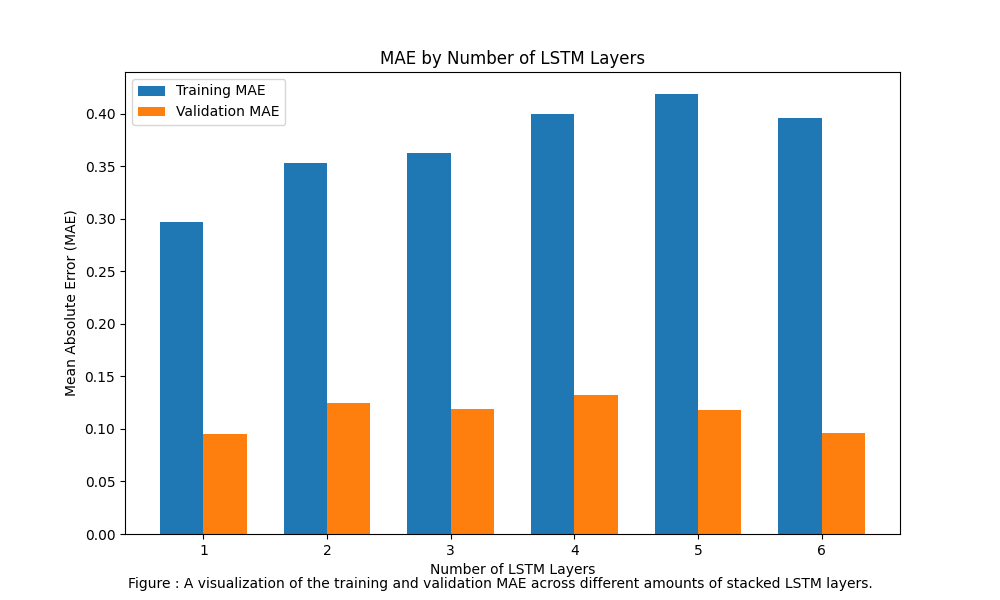
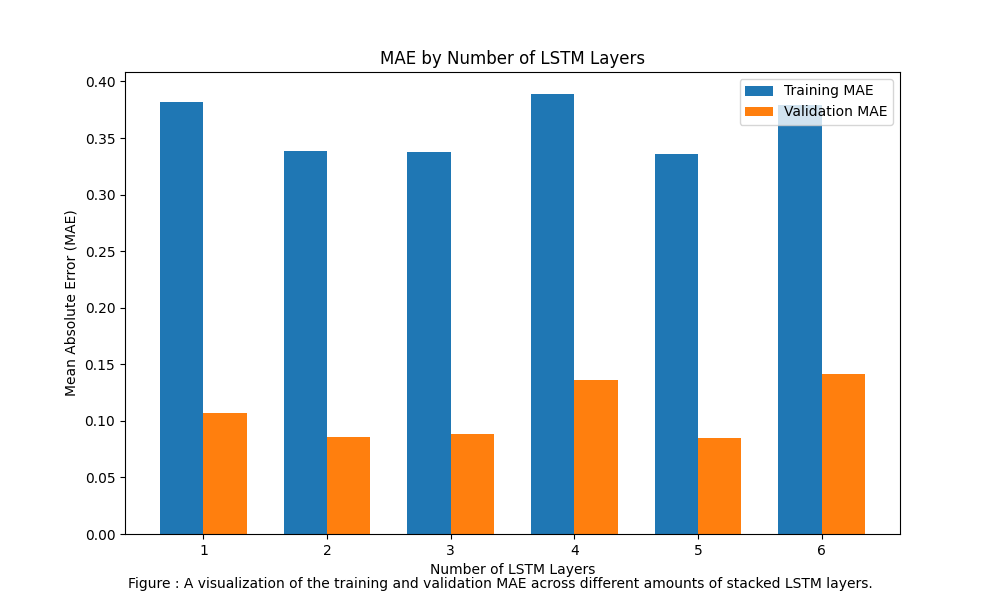
changed things to include dropout.

diff --git a/lstm_testing/parameter_tuning.py b/lstm_testing/parameter_tuning.py
@@ -54,7 +54,7 @@ tuned_lstm_layers = 1
 bb_tuned_epoch = 42
 bb_tuned_hidden_layer = 25
 bb_tuned_learning_rate = 0.0008
-bb_lstm_layers = 1
+bb_lstm_layers = 2
 
 
 # premo results:
@@ -68,13 +68,12 @@ bb_lstm_layers = 1
 
 
 # BlackBerry:
-# --- Running LSTM with 1 layer(s) ---
+# --- Running LSTM with 2 layer(s) ---
 # Epoch [10/42] complete.
 # Epoch [20/42] complete.
 # Epoch [30/42] complete.
 # Epoch [40/42] complete.
-# Results for 1 layers -> Train MAE: 0.0935 | Val MAE: 0.0440 | Test MAE: 0.0371
-
+# Results for 2 layers -> Train MAE: 0.1024 | Val MAE: 0.0422 | Test MAE: 0.0319
 
 
 
@@ -447,7 +446,7 @@ def evaluate_lstm_num_layers(train_loader, val_loader, test_loader, device, inpu
     caption_text = "Figure : A visualization of the training and validation MAE across different amounts of stacked LSTM layers."
     plt.figtext(0.5, 0.02, caption_text, ha="center", fontsize=10, wrap=True)
 
-    plt.savefig('LSTM_Layers_Comparison -- IBM.png')
+    plt.savefig('LSTM_Layers_Comparison -- BBTO.png')
     # plt.show()
 
     return results
@@ -477,7 +476,7 @@ if __name__ == "__main__":
 
     # evaluate_lstm_learning_rates(train_loader=IBM_train, val_loader=IBM_valid, test_loader=IBM_test, input_size=features, device=device)
 
-    evaluate_lstm_num_layers(train_loader=IBM_train, val_loader=IBM_valid, test_loader=IBM_test, input_size=features, hidden_size=tuned_hidden_layer, epochs=tuned_epoch, learning_rate=tuned_learning_rate, device=device)
+    # evaluate_lstm_num_layers(train_loader=IBM_train, val_loader=IBM_valid, test_loader=IBM_test, input_size=features, hidden_size=tuned_hidden_layer, epochs=tuned_epoch, learning_rate=tuned_learning_rate, device=device)
 
     # train_and_evaluate_lstm_for_epoch(model, train_loader=BB_train, val_loader=BB_valid, 
     #                     test_loader=BB_test, epochs=200, device=device, learning_rate=0.001)
@@ -486,6 +485,6 @@ if __name__ == "__main__":
 
     # evaluate_lstm_learning_rates(train_loader=BB_train, val_loader=BB_valid, test_loader=BB_test, input_size=features,  epochs=bb_tuned_epoch, hidden_size=bb_tuned_hidden_layer, device=device)
 
-    # evaluate_lstm_num_layers(train_loader=BB_train, val_loader=BB_valid, test_loader=BB_test, input_size=features, hidden_size=bb_tuned_hidden_layer, epochs=bb_tuned_epoch, learning_rate=bb_tuned_learning_rate, device=device)
+    evaluate_lstm_num_layers(train_loader=BB_train, val_loader=BB_valid, test_loader=BB_test, input_size=features, hidden_size=bb_tuned_hidden_layer, epochs=bb_tuned_epoch, learning_rate=bb_tuned_learning_rate, device=device)
 
 # DO BB.TO for next tuning

diff --git a/lstm_testing/single_stock_lstm.py b/lstm_testing/single_stock_lstm.py
@@ -19,8 +19,11 @@ import torch.nn as nn
     # (num_samples, seq_length, input_dim)
     # This is because batch_first = true
 class UnivariantLSTM(nn.Module):
-    def __init__(self, input_size, hidden_size, num_layers=1, dropout=0.0, output_size=1):
+    def __init__(self, input_size, hidden_size, num_layers=1, dropout=0.2, output_size=1):
         super().__init__()
+
+        if num_layers == 1:
+            dropout = 0.0
 
         self.lstm = nn.LSTM(input_size, hidden_size, num_layers=num_layers, dropout=dropout, batch_first=True)
         self.dropout = nn.Dropout(dropout)
